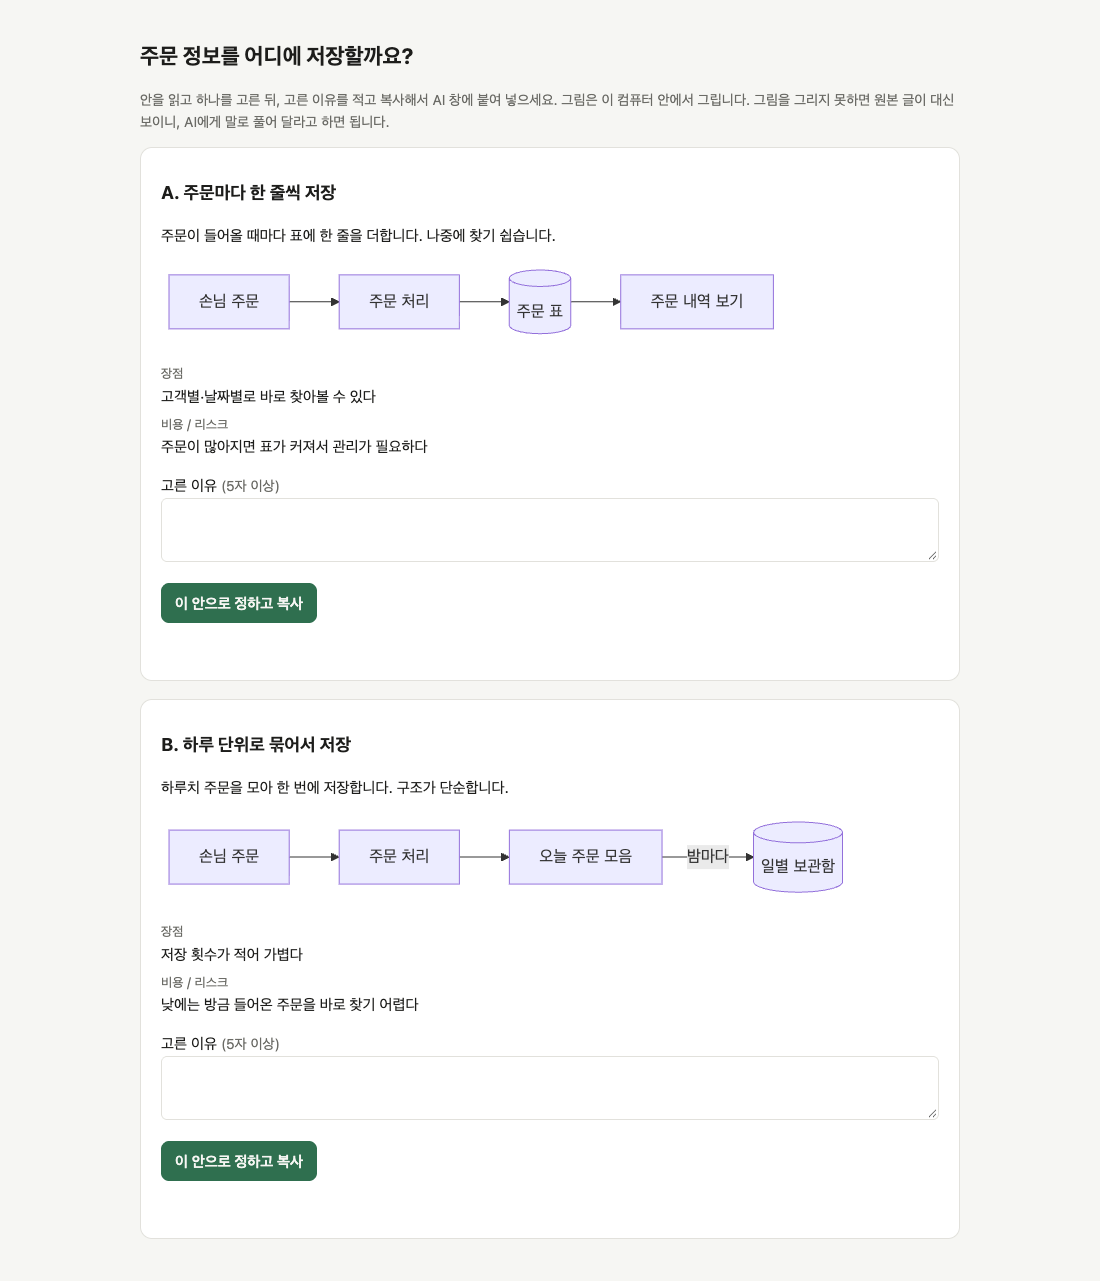
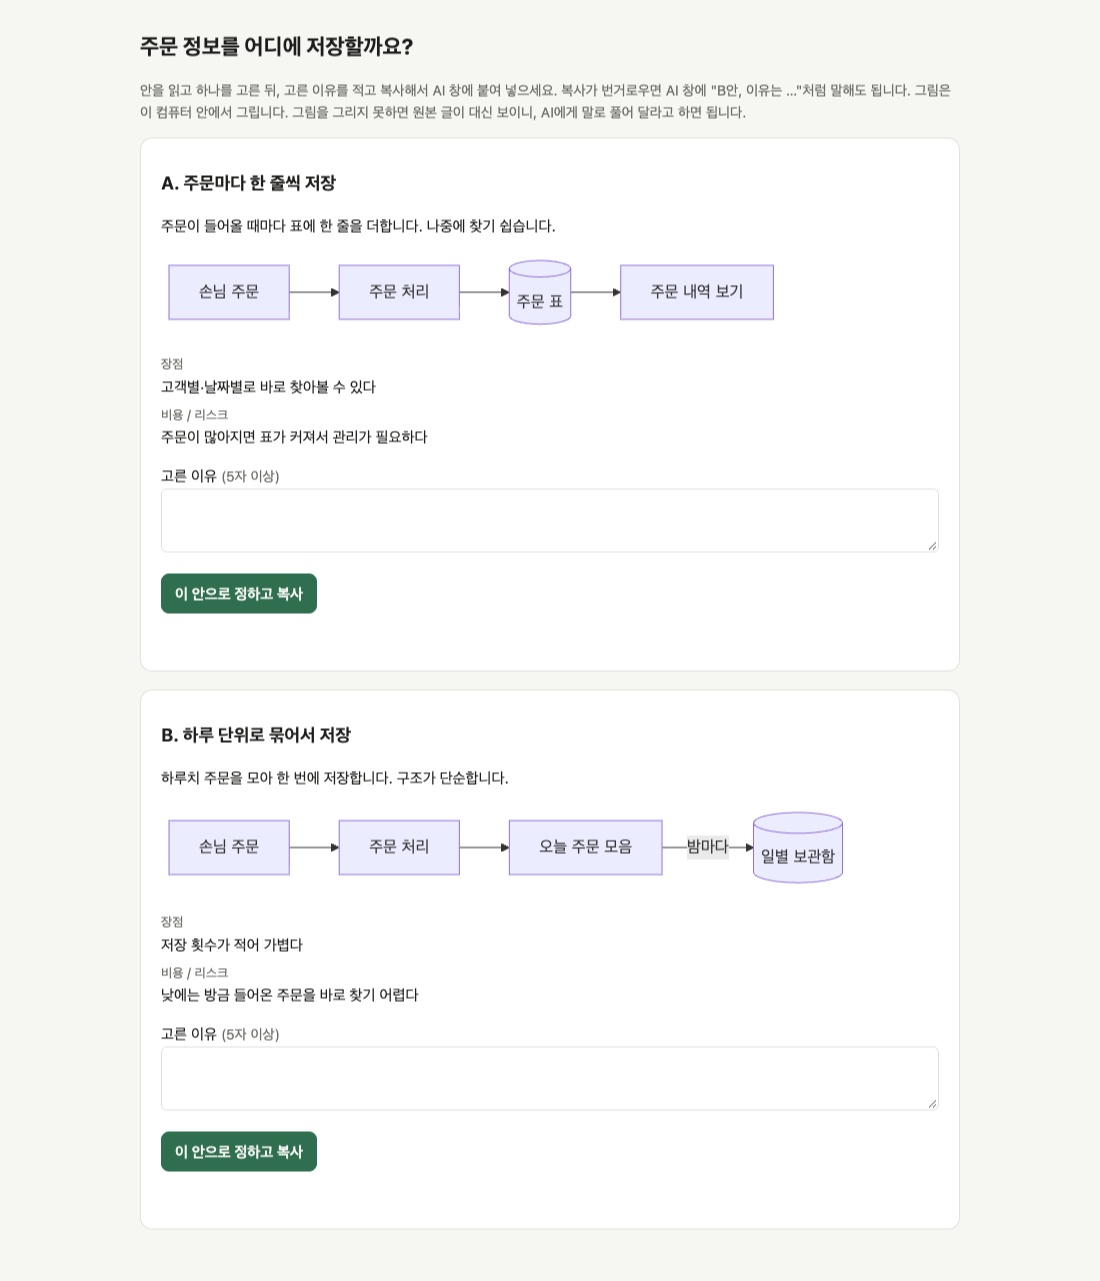
docs: 설계안 고르기 캡처를 지금 화면으로, 말로 답해도 된다고 README에

diff --git a/README.md b/README.md
@@ -26,7 +26,7 @@ Claude Code나 Kiro에서 내 프로젝트를 연 다음에 붙여 넣으면 됩
 
 ![설계안 고르기 화면](docs/images/design-choice.png)
 
-마음에 드는 안을 고르고 이유를 한 줄 적어 붙여 넣으면 됩니다.
+마음에 드는 안을 고르고 이유를 한 줄 적어 붙여 넣으면 됩니다. AI 창에 "B안, 이유는 …"처럼 말해도 됩니다.
 
 ## 5. "품질 리포트 보여줘"라고 하면
 
